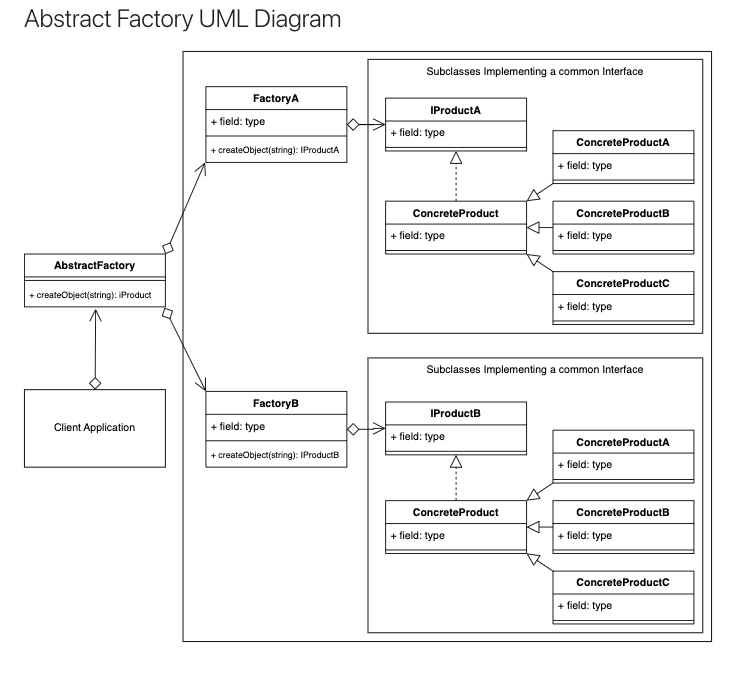
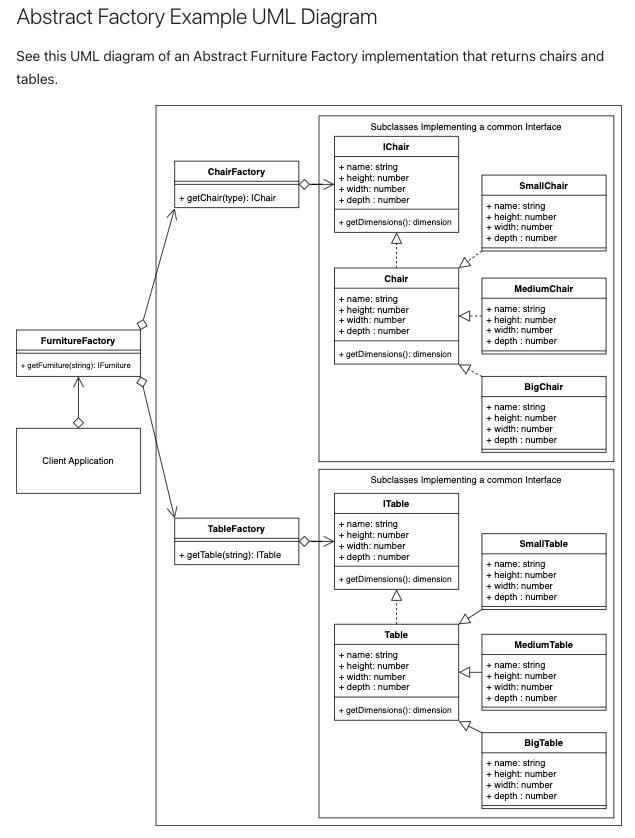
work abstract factory use case

Changed region(s): [[0.0299, 0.0, 0.9874, 0.997]]

diff --git a/src/creational/abstractFactory/useCase/tableFactory.ts b/src/creational/abstractFactory/useCase/tableFactory.ts
@@ -1,0 +1,29 @@
+import { BigTable } from "./bigTable";
+import { MediumTable } from "./mediumTable";
+import { SmallTable } from "./smallTable";
+import { ITable, Table } from "./table";
+
+enum TablesType {
+  SmallTable = 'SmallTable',
+  MediumTable = 'MediumTable',
+  BigTable = 'BigTable'
+}
+
+export class TableFactory {
+  static getTable(tableType: string): ITable {
+    try {
+      if (tableType === TablesType.SmallTable) {
+        return new SmallTable();
+      } else if (tableType === TablesType.MediumTable) {
+        return new MediumTable();
+      } else if(tableType === TablesType.BigTable) {
+        return new BigTable();
+      } else {
+        throw new Error('Class not found');
+      }
+    } catch(e) {
+      console.log(e);
+    }
+    return new Table();
+  }
+}

diff --git a/src/creational/abstractFactory/useCase/chairFactory.ts b/src/creational/abstractFactory/useCase/chairFactory.ts
@@ -1,0 +1,29 @@
+import { BigChair } from "./bigChair";
+import { Chair, IChair } from "./chair";
+import { MediumChair } from "./mediumChair";
+import { SmallChair } from "./smallChair";
+
+enum ChairsType {
+  SmallChair = 'SmallChair',
+  MediumChair = 'MediumChair',
+  BigChair = 'BigChair'
+}
+
+export class ChairFactory {
+  static getChair(chairType: string): IChair {
+    try {
+      if(chairType === ChairsType.SmallChair) {
+        return new SmallChair();
+      } else if(chairType === ChairsType.MediumChair) {
+        return new MediumChair();
+      } else if (chairType === ChairsType.BigChair) {
+        return new BigChair();
+      } else {
+        throw new Error('Class not found');
+      }
+    } catch(e) {
+      console.log(e)
+    }
+    return new Chair();
+  }
+}

diff --git a/src/creational/abstractFactory/useCase/furnitureFactory.ts b/src/creational/abstractFactory/useCase/furnitureFactory.ts
@@ -1,0 +1,25 @@
+import { IChair } from "./chair";
+import { ChairFactory } from "./chairFactory";
+import { ITable } from "./table";
+import { TableFactory } from "./TableFactory";
+
+export interface IForniture extends IChair, ITable {};
+
+const chairs = ['SmallChair', 'MediumChair', 'BigChair'];
+const tables = ['SmallTable', 'MediumTable', 'BigTable'];
+
+export class FornitureFactory {
+  static getFurniture(forniture: string): IForniture | undefined {
+    try {
+      if (chairs.indexOf(forniture) > -1) {
+        return ChairFactory.getChair(forniture);
+      }
+      if (tables.indexOf(forniture) > -1) {
+        return TableFactory.getTable(forniture);
+      }
+      throw new Error('Factory not Found');
+    } catch(e) {
+      console.log(e)
+    }
+  }
+}

diff --git a/src/creational/abstractFactory/useCase/chair.ts b/src/creational/abstractFactory/useCase/chair.ts
@@ -1,0 +1,25 @@
+import { dimension } from "./dimension";
+
+export interface IChair {
+  name: string;
+  height: number;
+  width: number;
+  depth: number;
+
+  getDimension(): dimension;
+}
+
+export class Chair implements IChair {
+  name = '';
+  height = 0;
+  width = 0;
+  depth = 0;
+
+  getDimension(): dimension {
+    return {
+      width: this.width,
+      height: this.height,
+      depth: this.depth
+    }
+  }
+}

diff --git a/src/creational/abstractFactory/useCase/table.ts b/src/creational/abstractFactory/useCase/table.ts
@@ -1,0 +1,25 @@
+import { dimension } from "./dimension";
+
+export interface ITable {
+  name: string;
+  height: number;
+  width: number;
+  depth: number;
+
+  getDimension(): dimension;
+}
+
+export class Table implements ITable {
+  name = '';
+  height = 0;
+  width = 0;
+  depth = 0;
+
+  getDimension(): dimension {
+    return {
+      width: this.width,
+      height: this.height,
+      depth: this.depth
+    }
+  }
+}

diff --git a/src/creational/abstractFactory/useCase/client.ts b/src/creational/abstractFactory/useCase/client.ts
@@ -1,0 +1,9 @@
+import { FornitureFactory } from "./furnitureFactory";
+
+let FORNITURE = FornitureFactory.getFurniture('SmallChair');
+console.log(FORNITURE?.name);
+console.log(FORNITURE?.getDimension());
+
+FORNITURE = FornitureFactory.getFurniture('BigTable');
+console.log(FORNITURE?.name);
+console.log(FORNITURE?.getDimension());

diff --git a/src/creational/abstractFactory/useCase/mediumChair.ts b/src/creational/abstractFactory/useCase/mediumChair.ts
@@ -1,0 +1,11 @@
+import { Chair } from "./chair";
+
+export class MediumChair extends Chair {
+  constructor() {
+    super();
+    this.name = 'Medium Chair';
+    this.height = 60;
+    this.width = 60;
+    this.depth = 60;
+  }
+}

diff --git a/src/creational/abstractFactory/useCase/mediumTable.ts b/src/creational/abstractFactory/useCase/mediumTable.ts
@@ -1,0 +1,11 @@
+import { Table } from "./table";
+
+export class MediumTable extends Table {
+  constructor() {
+    super();
+    this.name = 'Medium Table';
+    this.height = 80;
+    this.width = 80;
+    this.depth = 80;
+  }
+}

diff --git a/src/creational/abstractFactory/useCase/smallChair.ts b/src/creational/abstractFactory/useCase/smallChair.ts
@@ -1,0 +1,11 @@
+import { Chair } from "./chair";
+
+export class SmallChair extends Chair {
+  constructor() {
+    super();
+    this.name = 'Small Chair';
+    this.height = 40;
+    this.width = 40;
+    this.depth = 40;
+  }
+}

diff --git a/src/creational/abstractFactory/useCase/smallTable.ts b/src/creational/abstractFactory/useCase/smallTable.ts
@@ -1,0 +1,11 @@
+import { Table } from "./table";
+
+export class SmallTable extends Table {
+  constructor() {
+    super();
+    this.name = 'Small Table';
+    this.height = 50;
+    this.width = 50;
+    this.depth = 50;
+  }
+}

diff --git a/src/creational/abstractFactory/useCase/bigTable.ts b/src/creational/abstractFactory/useCase/bigTable.ts
@@ -1,0 +1,11 @@
+import { Table } from "./table";
+
+export class BigTable extends Table {
+  constructor() {
+    super();
+    this.name = 'Big Table';
+    this.height = 100;
+    this.width = 100;
+    this.depth = 100;
+  }
+}

diff --git a/src/creational/abstractFactory/useCase/bigChair.ts b/src/creational/abstractFactory/useCase/bigChair.ts
@@ -1,0 +1,11 @@
+import { Chair } from "./chair";
+
+export class BigChair extends Chair {
+  constructor() {
+    super();
+    this.name = 'Big Chair';
+    this.height = 80;
+    this.width = 80;
+    this.depth = 80;
+  }
+}
